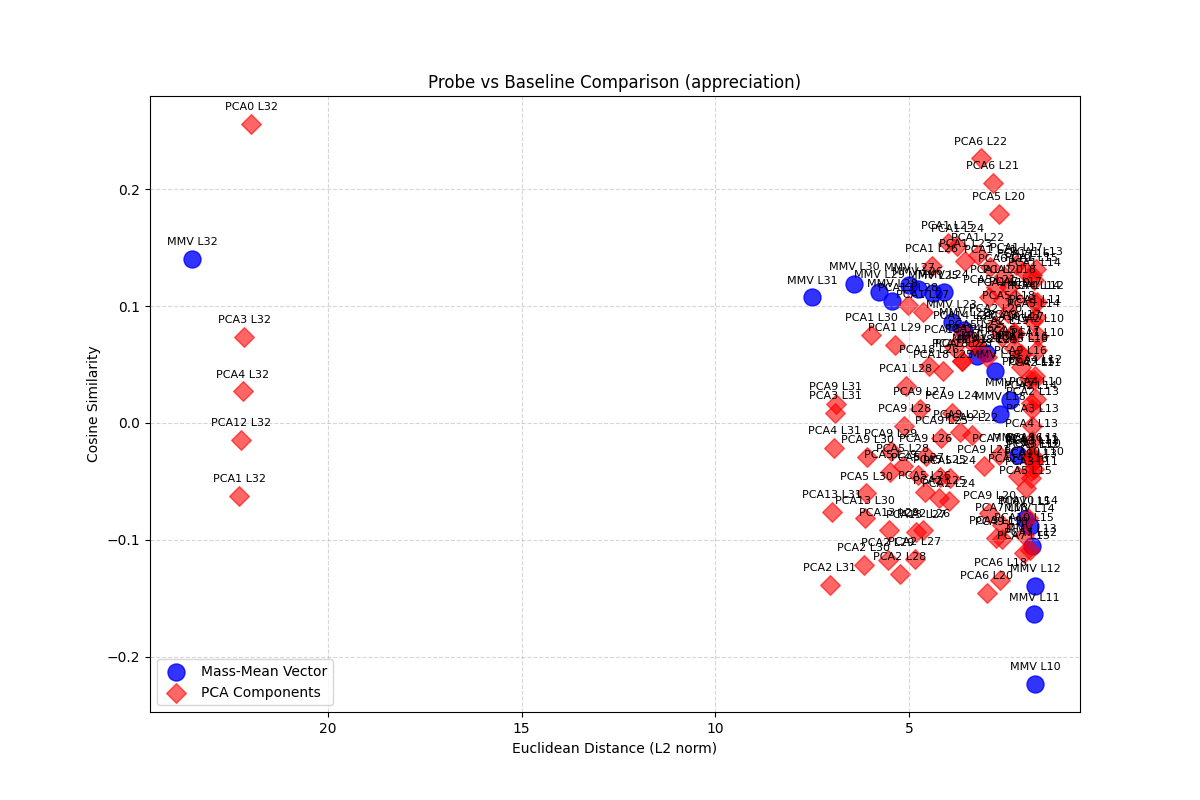
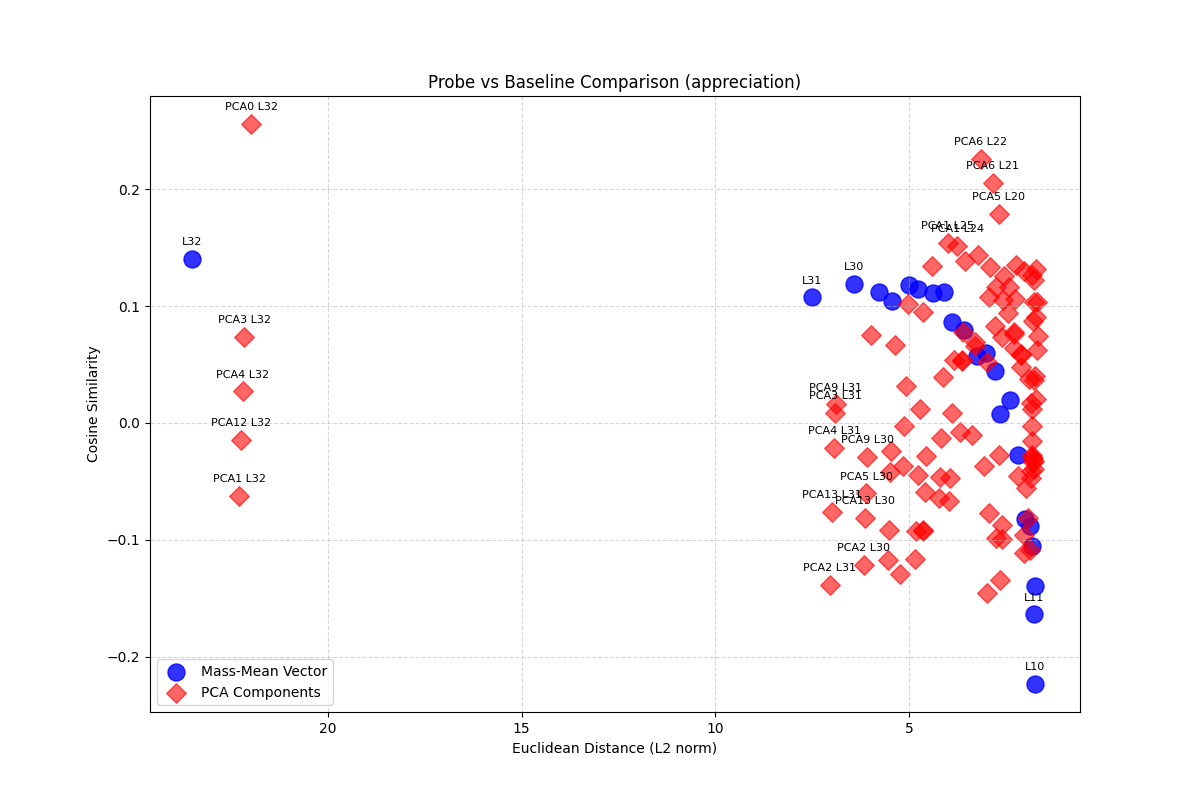
fixing plot

diff --git a/linear_probe/control/test_probe_dir_to_simple_baseline.py b/linear_probe/control/test_probe_dir_to_simple_baseline.py
@@ -105,7 +105,7 @@ def main():
                 'layer': layer,
                 'cos_sim': cos_sim,
                 'dist': dist,
-                'label': f"MMV L{layer}"
+                'label': f"L{layer}"
             })
             
         # B. PCA components comparison
@@ -149,10 +149,11 @@ def main():
             c='red', alpha=0.6, s=100, label='PCA Components', marker='D'
         )
 
-    # Label points
+    # Label points (only those above threshold of interest)
     for r in results:
-        plt.annotate(r['label'], (r['dist'], r['cos_sim']), 
-                     textcoords="offset points", xytext=(0,10), ha='center', fontsize=8)
+        if r['dist'] > 6 or abs(r['cos_sim']) > 0.15:
+            plt.annotate(r['label'], (r['dist'], r['cos_sim']), 
+                         textcoords="offset points", xytext=(0,10), ha='center', fontsize=8)
 
     plt.title(f"Probe vs Baseline Comparison ({args.concept_word})")
     plt.xlabel("Euclidean Distance (L2 norm)")
